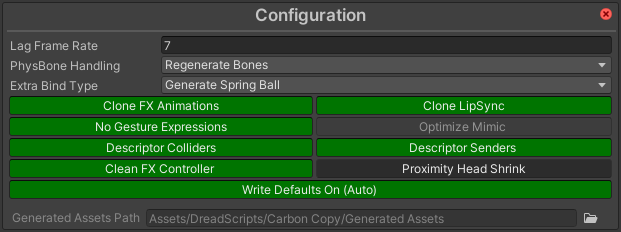
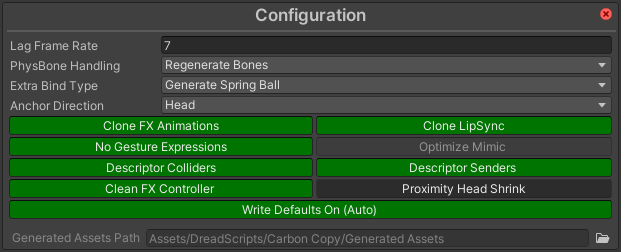
Update Documentation v1.5.2

diff --git a/README.md b/README.md
@@ -393,6 +393,24 @@ What the last extra Binding button should bind to.
 
 <details>
 
+  <summary> <strong> Anchor Direction </strong> </summary>
+
+<blockquote>
+
+What direction the mirror clone's anchor should align to.
+
+| Option | Description |
+| :------------- | :------------- |
+| `Head` | Mirror starting from the direction your head is looking in (original behaviour) |
+| `Hips` | Mirror starting from the direction your hips are facing |
+| `Root` | Mirror starting from the direction your playspace is oriented in (thumbstick control) |
+
+![CC Anchor Direction gif](https://github.com/SleightlyDreadful/Carbon-Copy/raw/main/Documentation/Gifs/CC%20Anchor%20Direction.gif)
+
+</details>
+
+<details>
+
   <summary> <strong> Clone FX Animations </strong> </summary>
 
 <blockquote>
@@ -1328,6 +1346,16 @@ Navigate through your project files to your Avatar's Generated Assets folder for
 Assuming you have a **commercial license** for Carbon Copy, you will want to export the respective Generated Assets folder for your avatar alongside the rest of your avatar package.
 
 You can find these generated resources at ***Save File Path**/GeneratedAssets/*. By default, this is *Assets/DreadScripts/Carbon Copy/GeneratedAssets/*.
+
+</details>
+
+<details>
+
+  <summary> <strong> Why is my project crashing after importing Carbon Copy? </strong> </summary>
+
+<blockquote>
+
+Remove Carbon Copy via Windows File Explorer and check your project to see if it currently contains Cinemachine. You can locate this by clicking on `Window > Package Manager` from the top toolbar, and browsing the packages currently in your project. If Cinemachine is added, remove it. It is sometimes added through the VRChat Worlds SDK, so you may need to remove any remnants of the Worlds SDK from your project and this package manager window before removing Cinemachine.
 
 </details>
 
